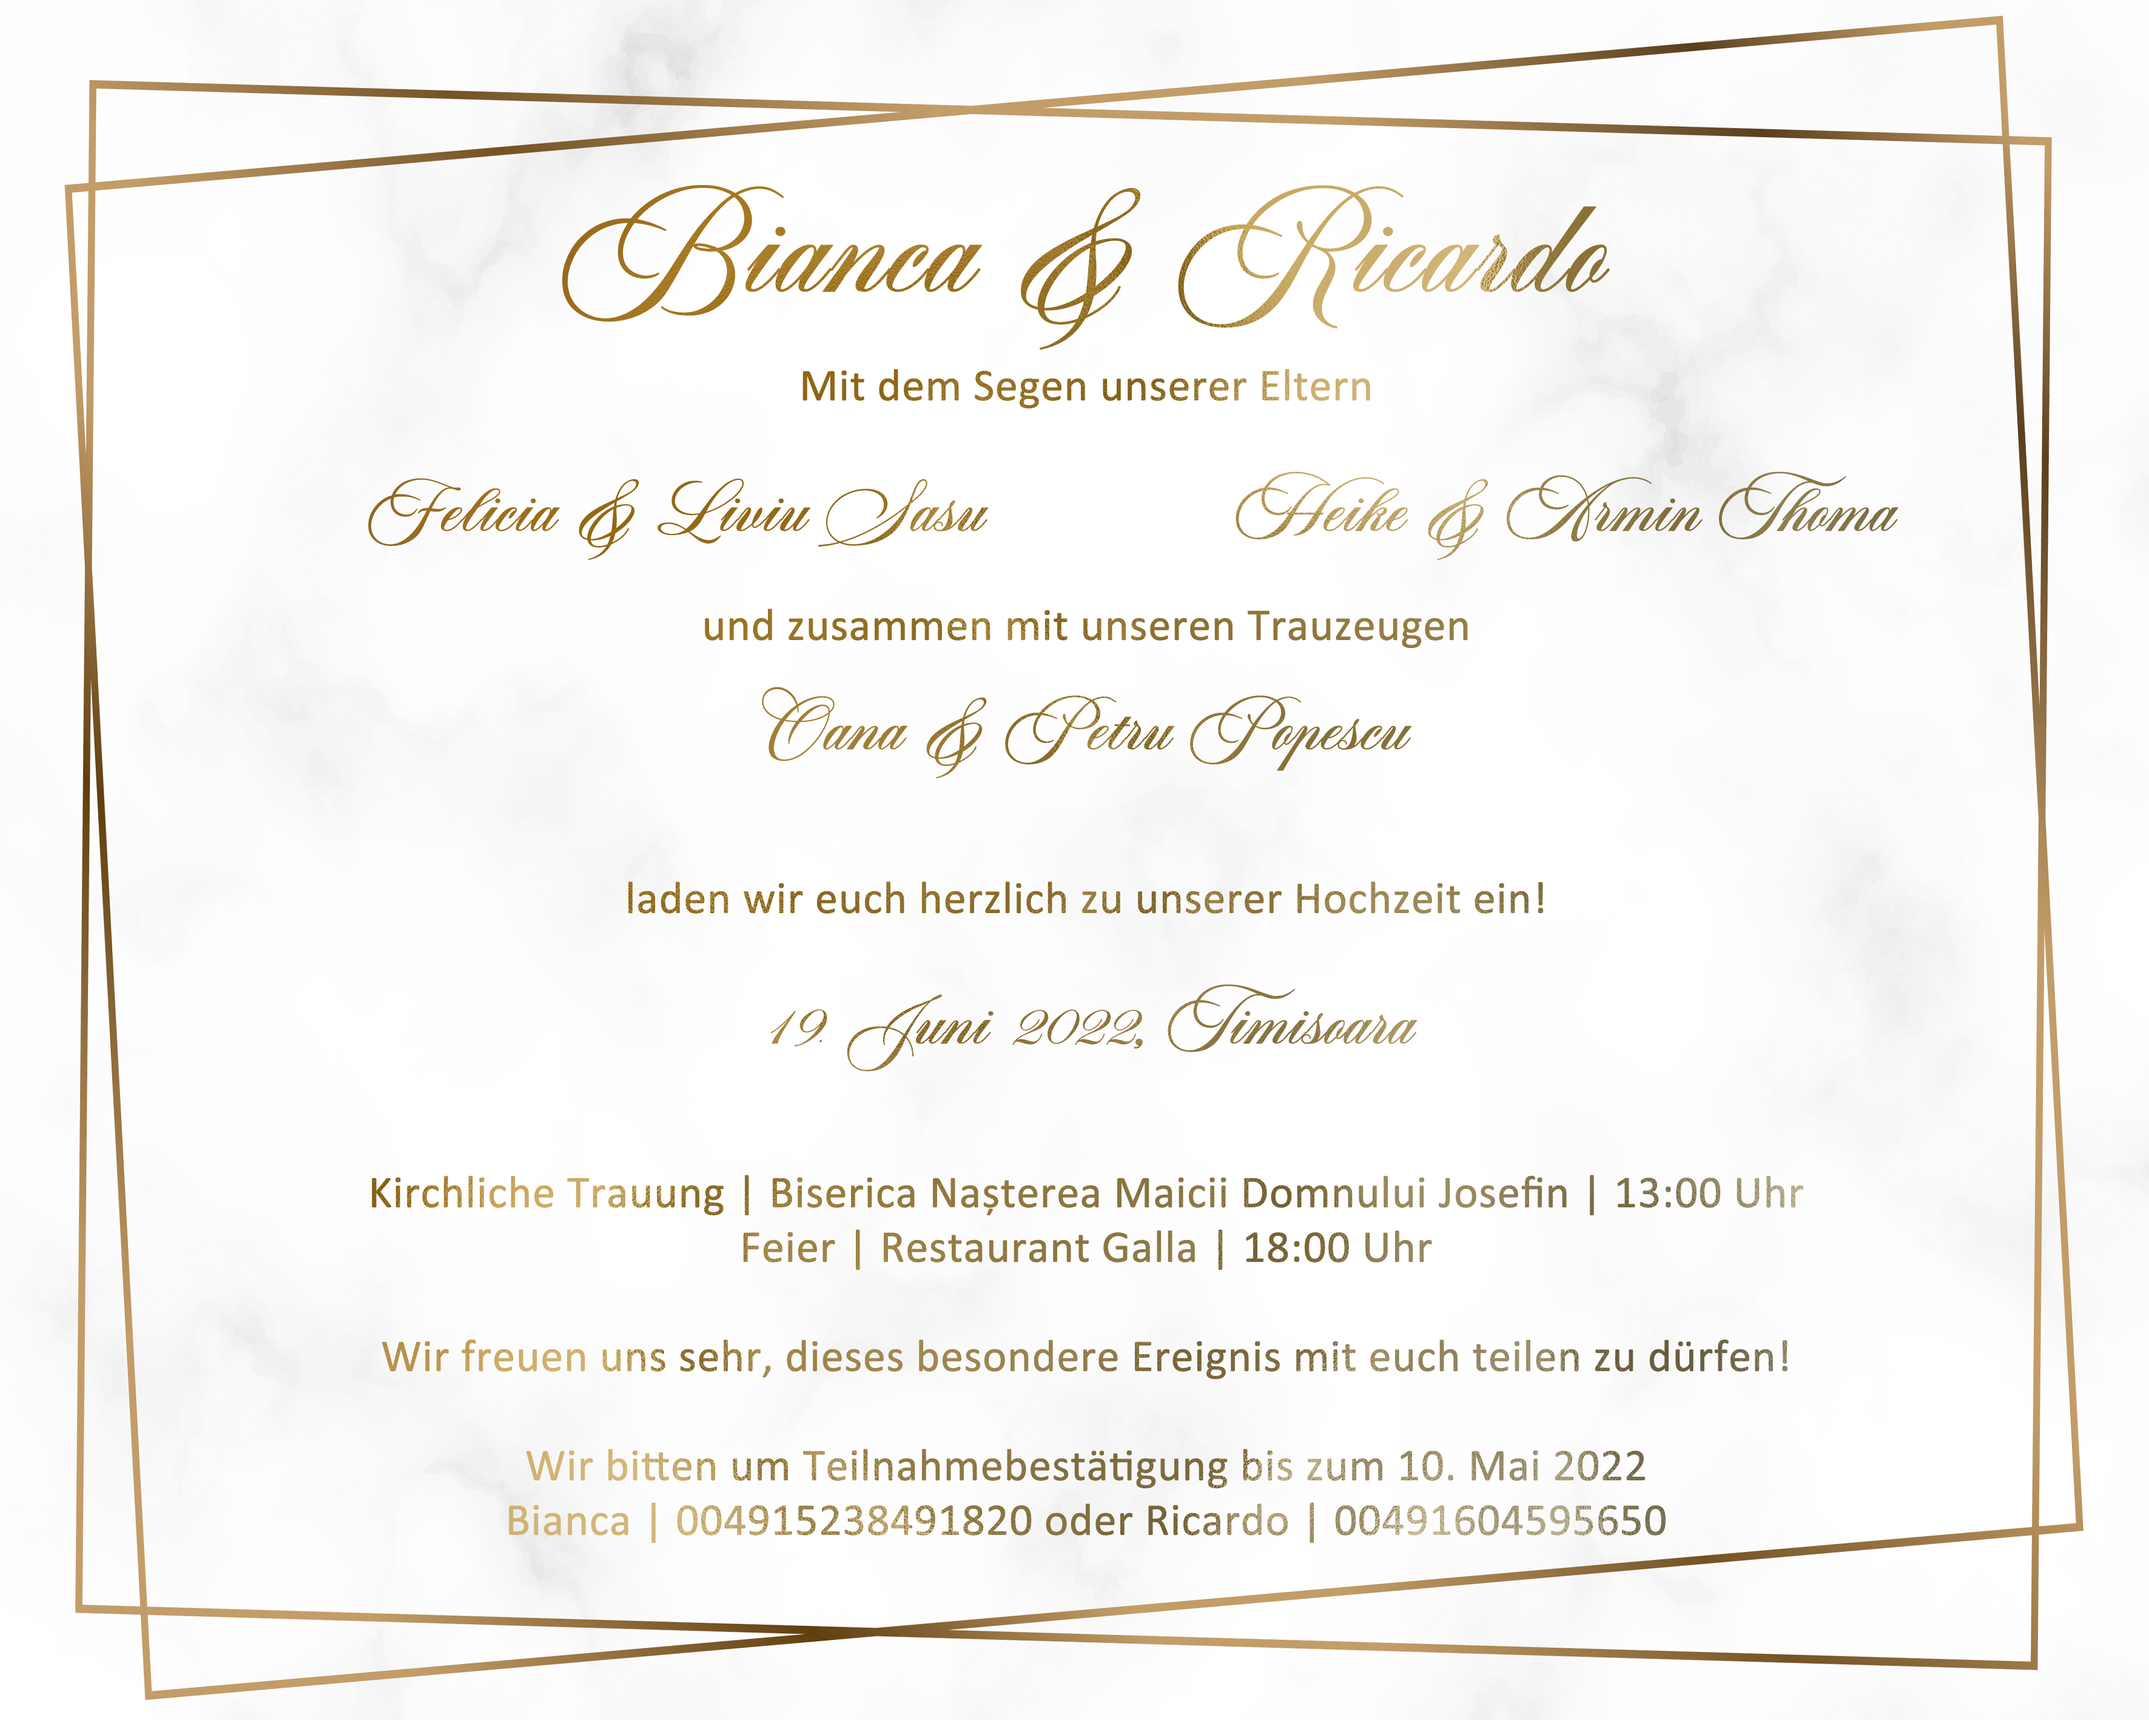
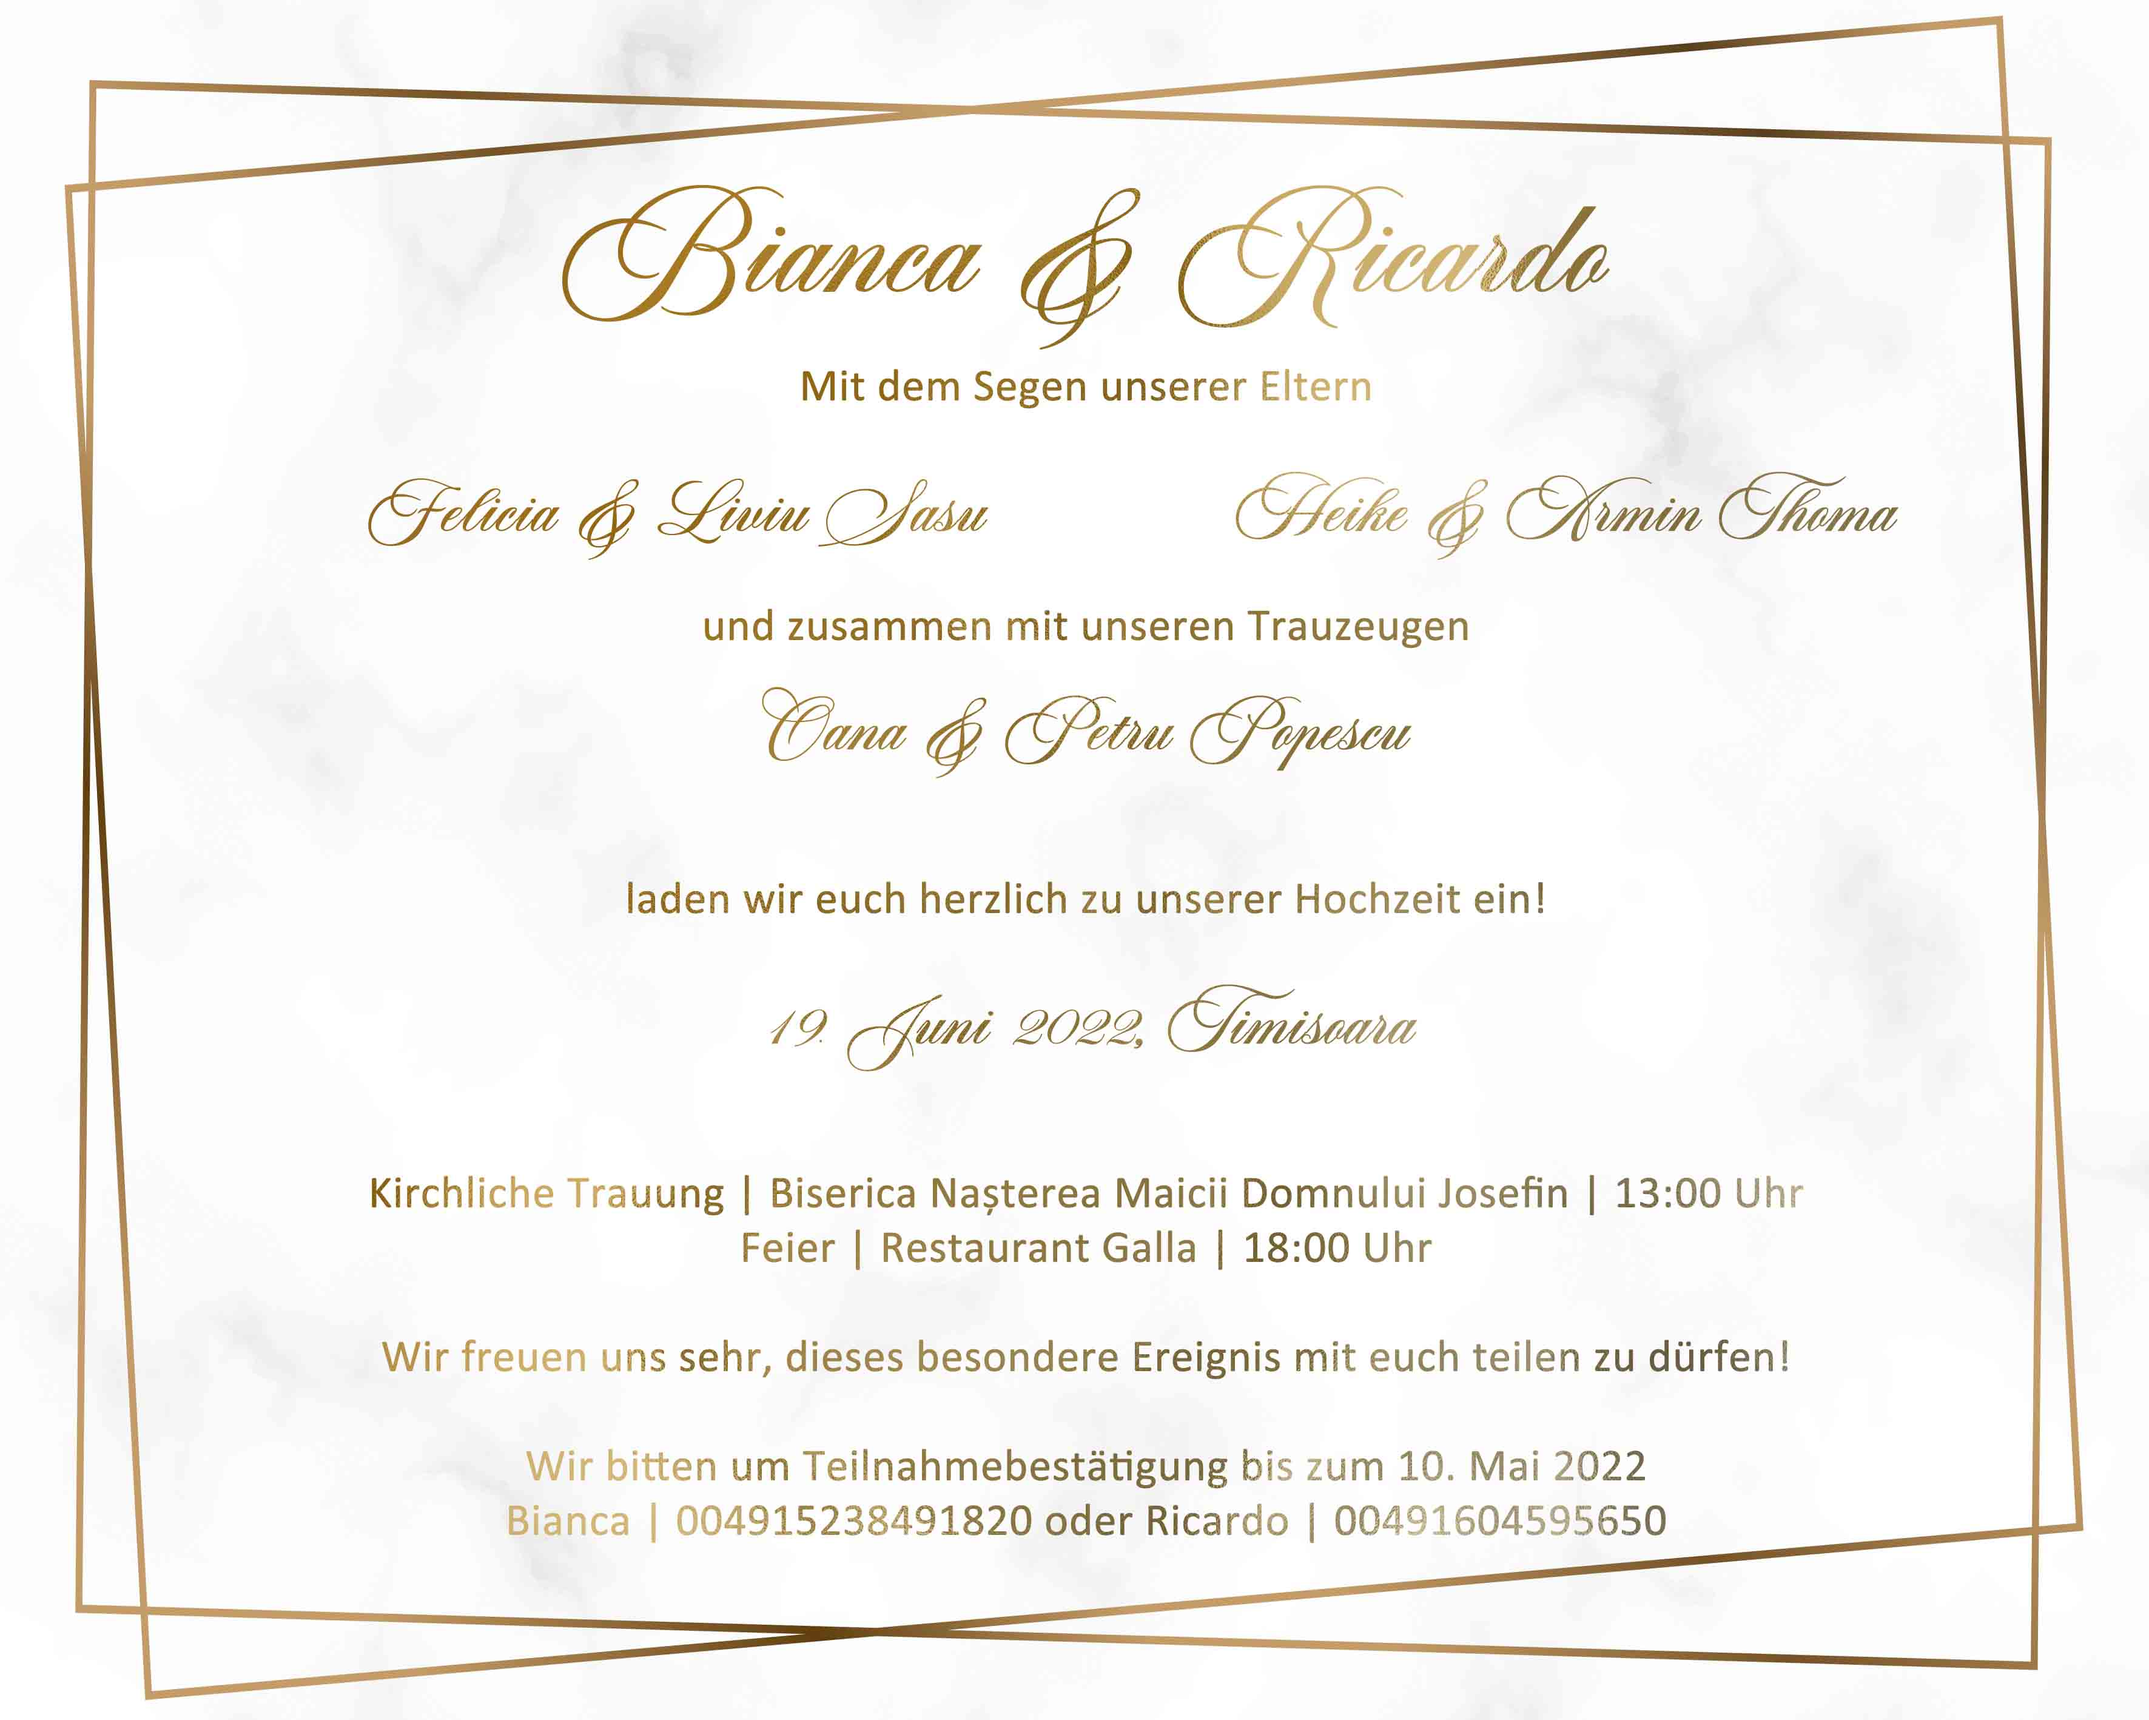
asd

diff --git a/_layouts/home_ger.html b/_layouts/home_ger.html
@@ -26,7 +26,7 @@ layout: default_ger
             <div class="col-lg-8 col-md-10 mx-auto">
 
                 <p>
-                    <img src="/img/Einladung.jpg" width="500px">
+                    <img src="/img/Einladung.jpg" width="1000px">
                     
                     <br><br>
                     

diff --git a/_layouts/home_rom.html b/_layouts/home_rom.html
@@ -27,7 +27,7 @@ layout: default_rom
 
                 <p>
                     
-                    <img src="/img/Einladung_rom3.jpg"  width="500px">
+                    <img src="/img/Einladung_rom3.jpg"  width="1000px">
                     
                     
     Cum a început totul...
